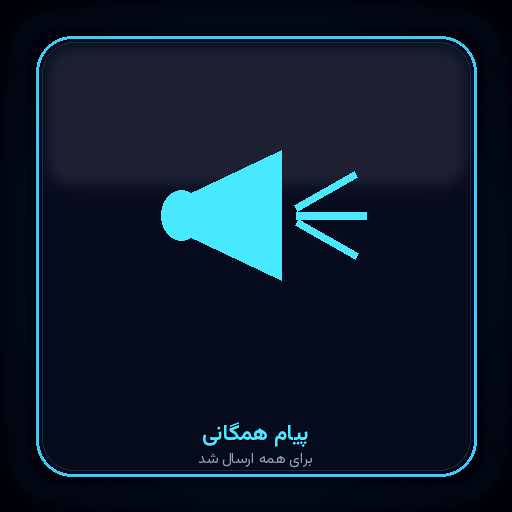
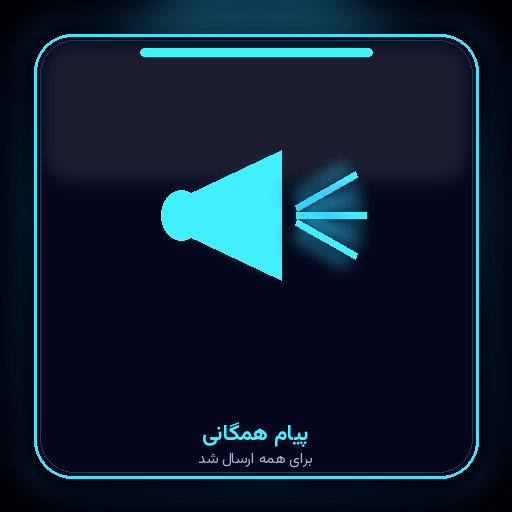
Regenerate neon assets with strong glow; auto-invalidate file_id cache
Stronger multi-layer bloom, ambient orbs, brighter borders. Pack signature
computed from PNG bytes so Railway always re-uploads after icon changes.

diff --git a/mega_bot/messaging.py b/mega_bot/messaging.py
@@ -10,6 +10,7 @@ same asset is not re-uploaded every time. File IDs are cached in the
 from __future__ import annotations
 
 import json
+import hashlib
 import logging
 from pathlib import Path
 from typing import Any, TYPE_CHECKING
@@ -184,7 +185,19 @@ def extract_photo_file_id(result: Any) -> str | None:
 
 
 # Content fingerprint of assets/ PNG pack — changing any icon invalidates cache
-ASSET_PACK_SIG = '7e3f62dc2788'
+def _compute_pack_sig() -> str:
+    """Fingerprint assets/*.png so any icon change invalidates Bale file_id cache."""
+    h = hashlib.sha256()
+    try:
+        for f in sorted(ASSETS_DIR.glob('*.png')):
+            h.update(f.name.encode())
+            h.update(f.read_bytes())
+    except Exception:
+        h.update(b'fallback')
+    return h.hexdigest()[:12]
+
+
+ASSET_PACK_SIG = _compute_pack_sig()
 _SETTINGS_KEY = f'asset_file_ids_{ASSET_PACK_SIG}'
 
 
